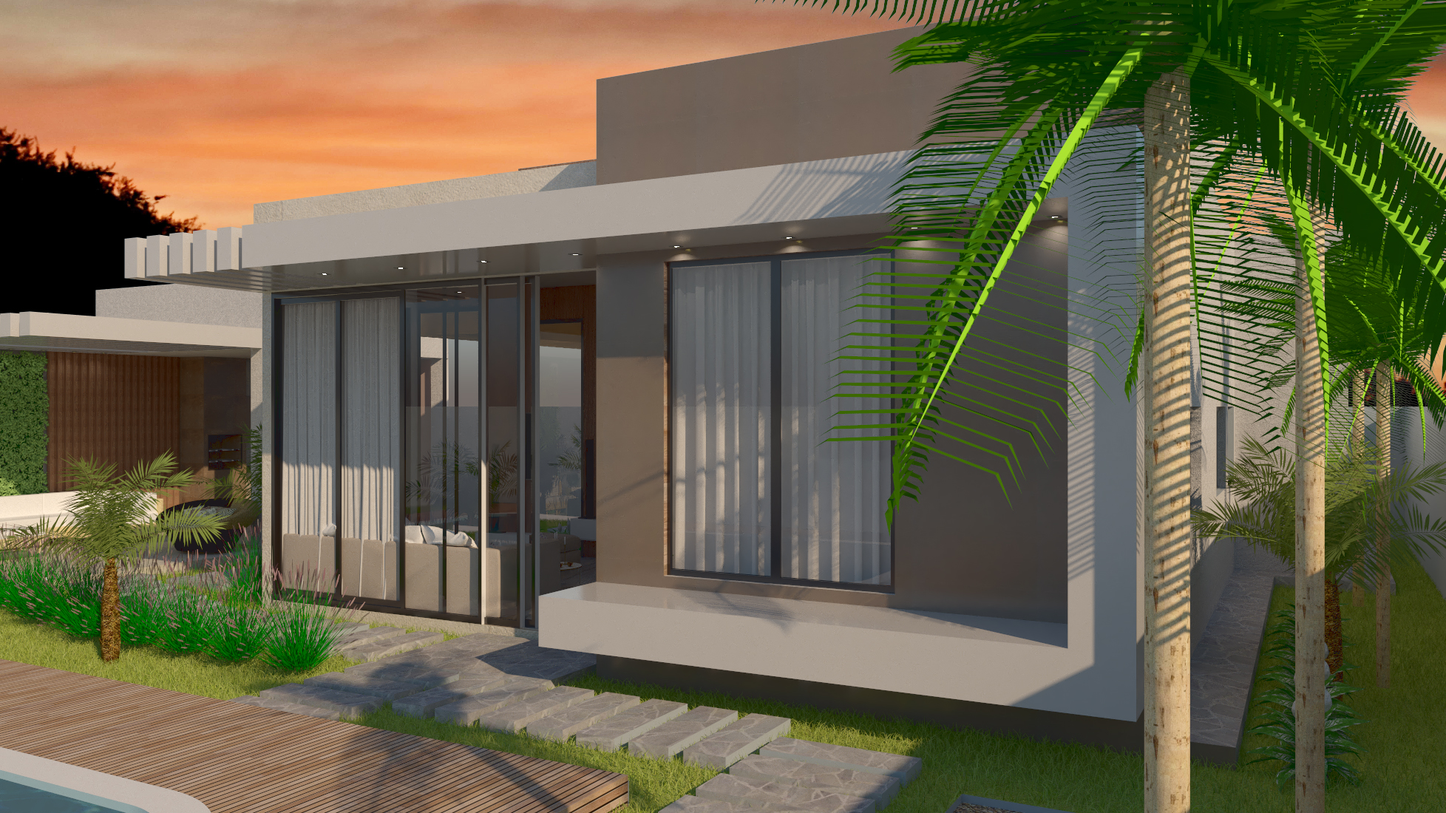
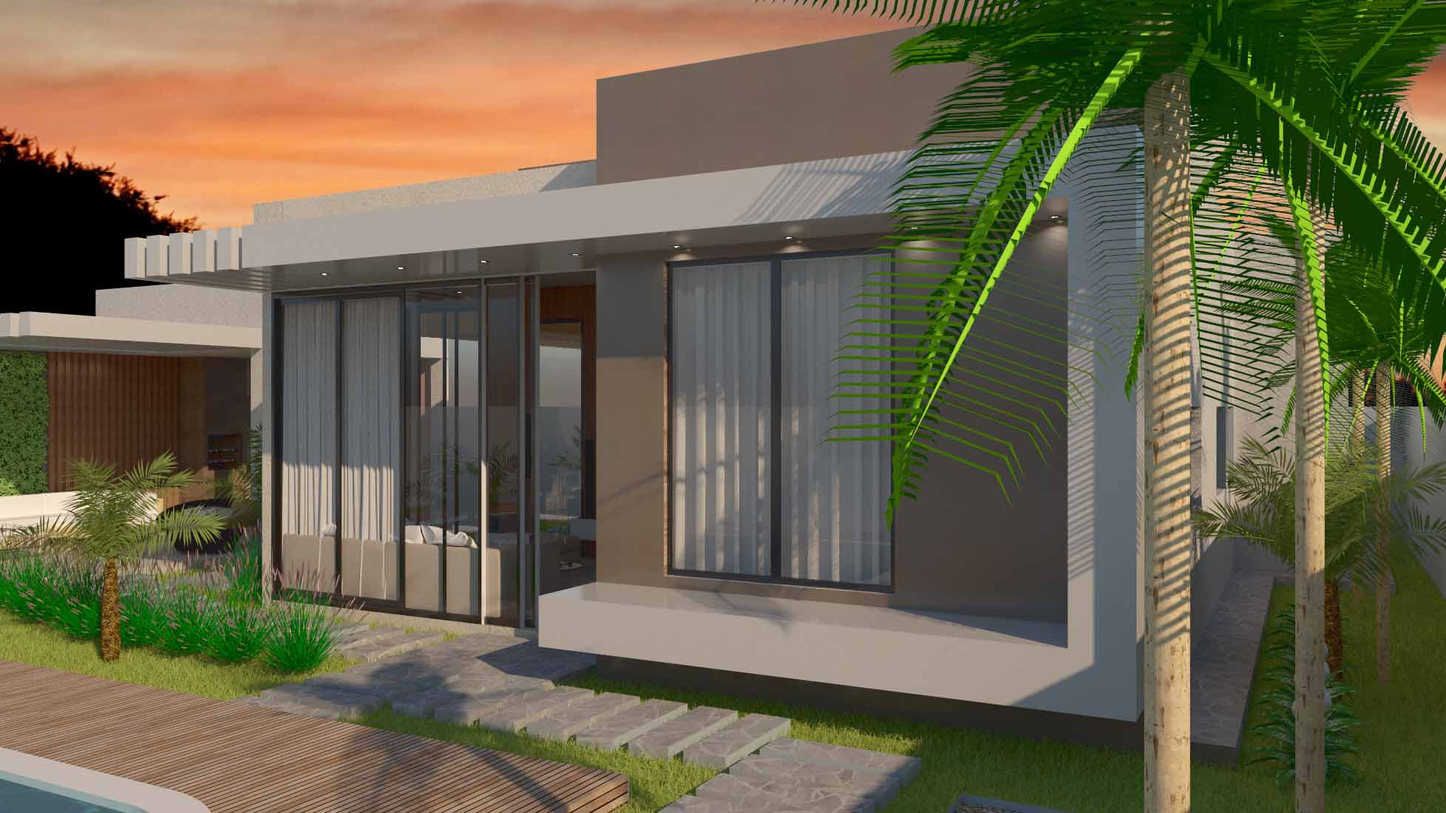
Diminui as dimensões das imagens, para melhor download no browser

diff --git a/index.html b/index.html
@@ -487,8 +487,8 @@
 										</a>
 									  </div> -->
 									  <div class="col-sm-6 col-md-4">
-										<a class="lightbox" href="img/portfolio/residencia32.png">
-										  <img src="img/portfolio/residencia32.png" alt="Rails">
+										<a class="lightbox" href="img/portfolio/residencia32.jpg">
+										  <img src="img/portfolio/residencia32.jpg" alt="Rails">
 										</a>
 									  </div>
 
@@ -521,8 +521,8 @@
 										</a>
 									  </div>
 									  <div class="col-sm-6 col-md-4">
-										<a class="lightbox" href="img/portfolio/loja2.png">
-										  <img src="img/portfolio/loja2.png" alt="Rails">
+										<a class="lightbox" href="img/portfolio/loja2.jpg">
+										  <img src="img/portfolio/loja2.jpg" alt="Rails">
 										</a>
 									  </div>
 									  <div class="col-sm-6 col-md-4">
